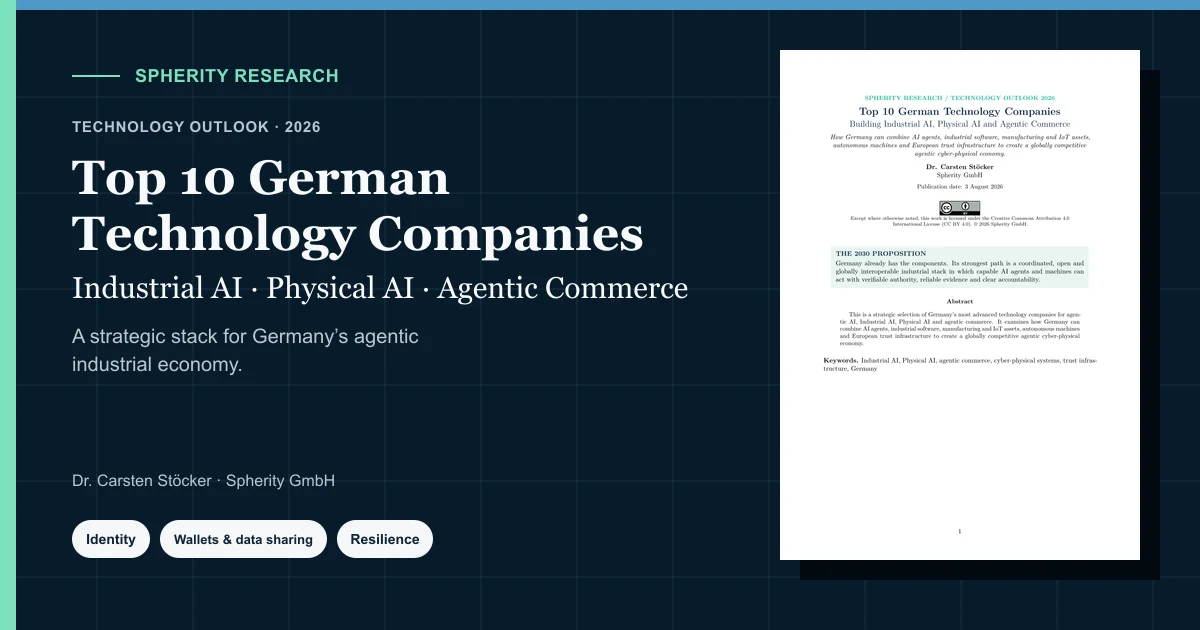
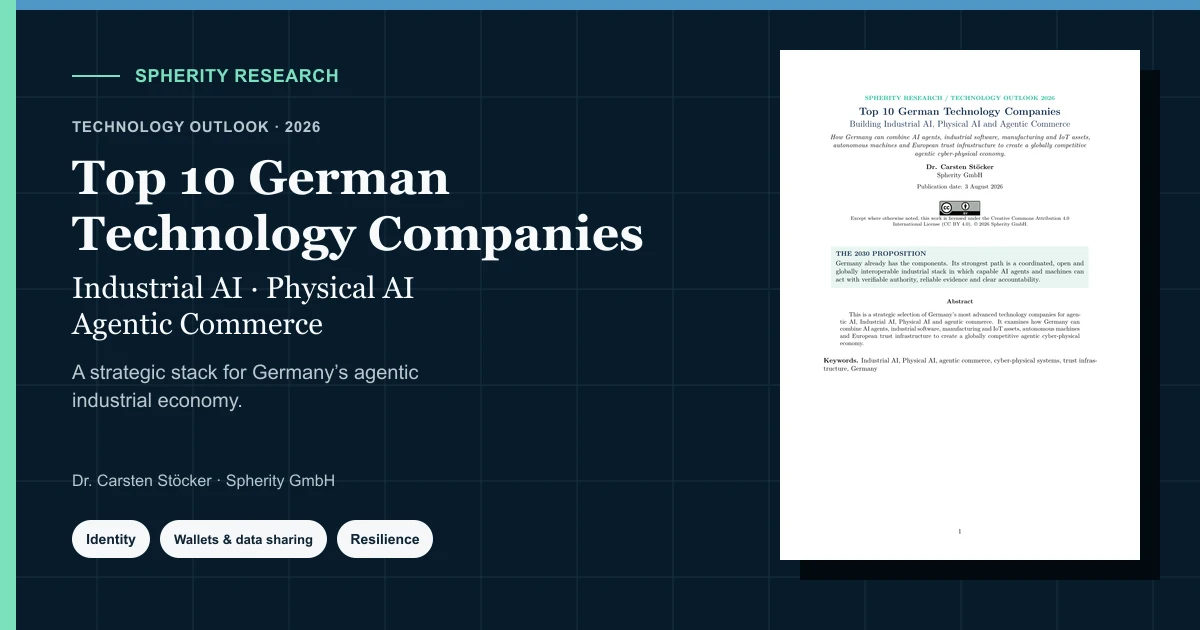
fix: make social-card preflight portable

Changed region(s): [[0.0617, 0.4825, 0.3392, 0.6635], [0.37, 0.4222, 0.5858, 0.4825]]

diff --git a/README.md b/README.md
@@ -18,7 +18,9 @@ rendered by `scripts/generate-social-cards.mjs`. The shared 1200 × 630 research
 grid style is regenerated before local checks and deployment. A mandatory
 preflight measures every title, subtitle, description, byline, and topic row
 against the left-column safe area; generation and deployment fail if text
-enters the 60-pixel gutter before the document visual. The Gartner-
+enters the 60-pixel gutter before the document visual. Portable line-length
+limits also prevent operating-system font substitutions from passing locally
+but overflowing in GitHub Actions. The Gartner-
 approved strategy card is a checksum-protected exception and must not be
 changed without a new approval.
 
